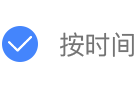
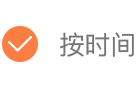
new

Changed region(s): [[0.0, 0.2955, 0.2941, 0.7045]]

diff --git a/1.0 2/GQZhiBo/GQZhiBo/Class/比分页/比分页大厅/SubViews/Cells/ZBSaiTableViewCell.m b/1.0 2/GQZhiBo/GQZhiBo/Class/比分页/比分页大厅/SubViews/Cells/ZBSaiTableViewCell.m
@@ -733,13 +733,12 @@
     if (!_labTJ) {
         _labTJ = [[UILabel alloc] init];
         _labTJ.text = @"推荐";
-        _labTJ.textColor = UIColorHex(#FF9E9C);
-        _labTJ.font = font7;
+        _labTJ.textColor = UIColorHex(#EF9739);
+        _labTJ.font = font10;
         _labTJ.layer.cornerRadius = 2;
         _labTJ.layer.borderWidth = ONE_PX_LINE;
-        _labTJ.layer.borderColor = UIColorHex(#FF9E9C).CGColor;
+        _labTJ.layer.borderColor = UIColorHex(#EF9739).CGColor;
         _labTJ.textAlignment = NSTextAlignmentCenter;
-        
     }
     return _labTJ;
 }
@@ -1170,8 +1169,8 @@
     
     [self.labTJ mas_makeConstraints:^(MASConstraintMaker *make) {
         make.centerY.equalTo(self.labQB.mas_centerY);
-        make.right.equalTo(self.labQB.mas_left).offset(-5);
-        make.size.mas_equalTo(CGSizeMake(20, 10));
+        make.right.equalTo(self.labQB.mas_right).offset(-3);
+        make.size.mas_equalTo(CGSizeMake(30, 15));
     }];
     
 //    [self.labTJNum mas_makeConstraints:^(MASConstraintMaker *make) {

diff --git a/1.0 2/GQZhiBo/GQZhiBo/Class/推荐页/推荐详情/SubViews/VIewControllers/ZBTuijianDetailVC.m b/1.0 2/GQZhiBo/GQZhiBo/Class/推荐页/推荐详情/SubViews/VIewControllers/ZBTuijianDetailVC.m
@@ -352,7 +352,7 @@
         [self appleBuyWithData];
 //    }
 }
--(void)zhucetongzhi{
+- (void)zhucetongzhi{
     [[NSNotificationCenter defaultCenter] addObserver:self selector:@selector(wxtongzhi:) name:@"wxtongzhi" object:nil];
 }
 - (void)wxtongzhi:(NSNotification *)text{
@@ -876,6 +876,7 @@
         [ZBLodingAnimateView showLodingView];
     } End:^(id responseOrignal) {
     } Success:^(id responseResult, id responseOrignal) {
+        [self paySuccess];
         [ZBLodingAnimateView dissMissLoadingView];
         NSDictionary *dic = (NSDictionary *)responseOrignal;
         if (dic) {
